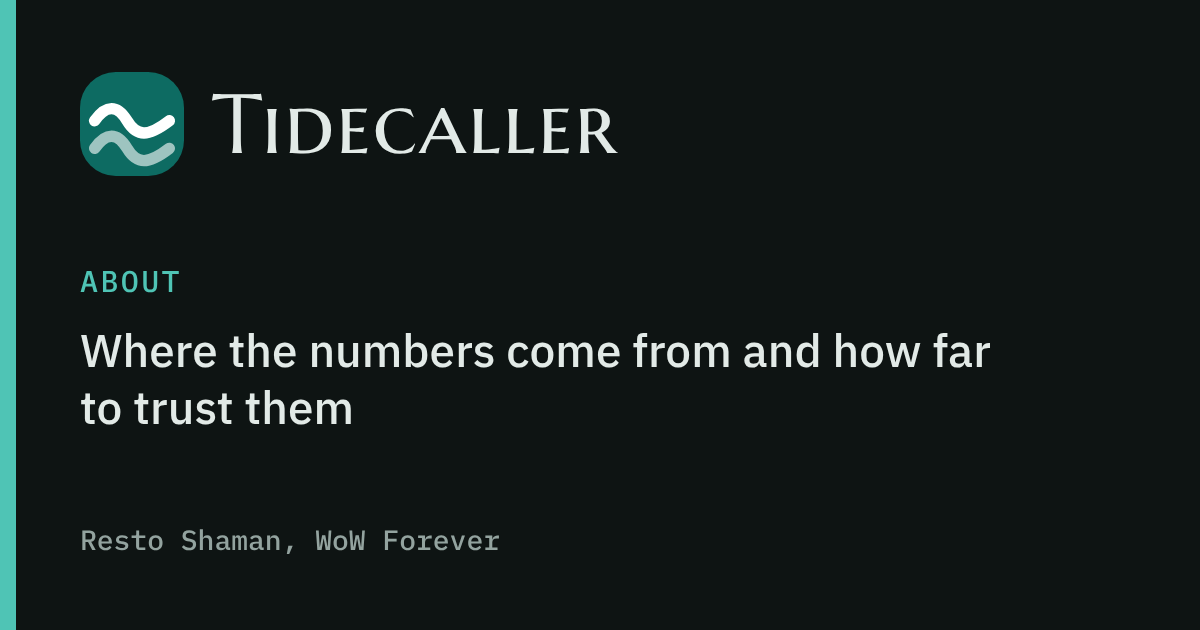
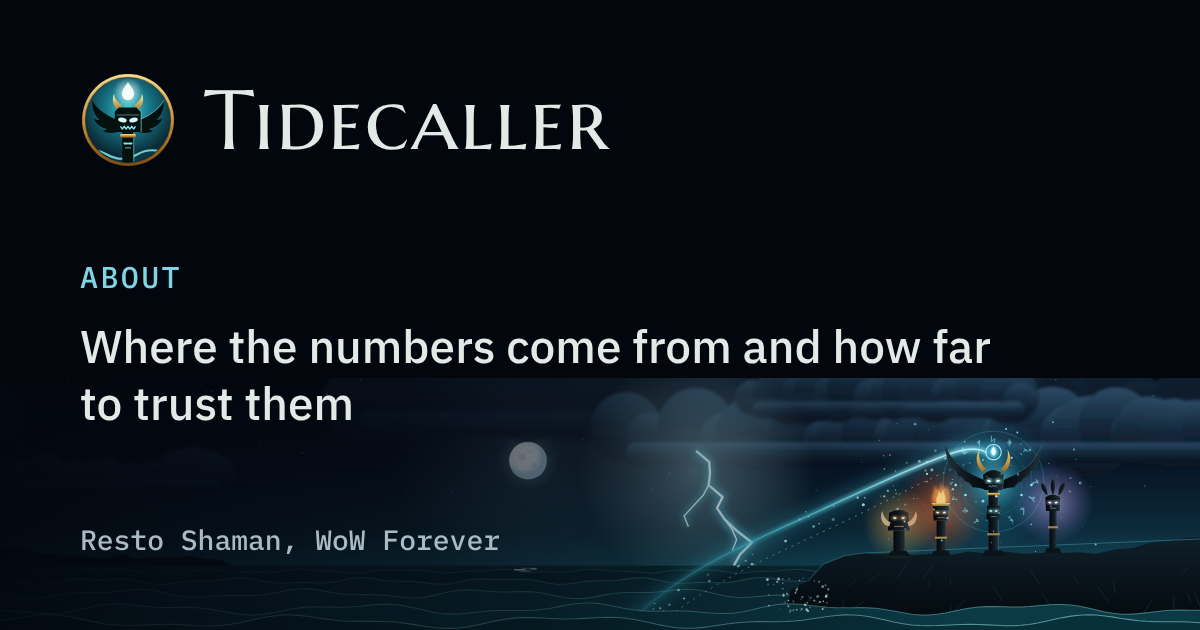
feat: US-003 - Social cards with the art and the totem
Claude-Session: https://claude.ai/code/session_019VEYfxZowPjtKTXiPygQEi

diff --git a/test/seo.test.ts b/test/seo.test.ts
@@ -353,6 +353,10 @@ describe("icon files", () => {
   ])("%s is %i px square", (f, size) => {
     expect(ihdr(f)).toEqual([size, size]);
   });
+  it.each(["home", "bis", "items", "guides", "about"])("og/%s.png is a 1200 x 630 card under 300 KB", (name) => {
+    expect(ihdr(`og/${name}.png`)).toEqual([1200, 630]);
+    expect(pub(`og/${name}.png`).length).toBeLessThan(300 * 1024);
+  });
   it("favicon.ico holds the 16, 32 and 48 px images", () => {
     const b = pub("favicon.ico");
     expect([b.readUInt16LE(0), b.readUInt16LE(2), b.readUInt16LE(4)]).toEqual([0, 1, 3]);
